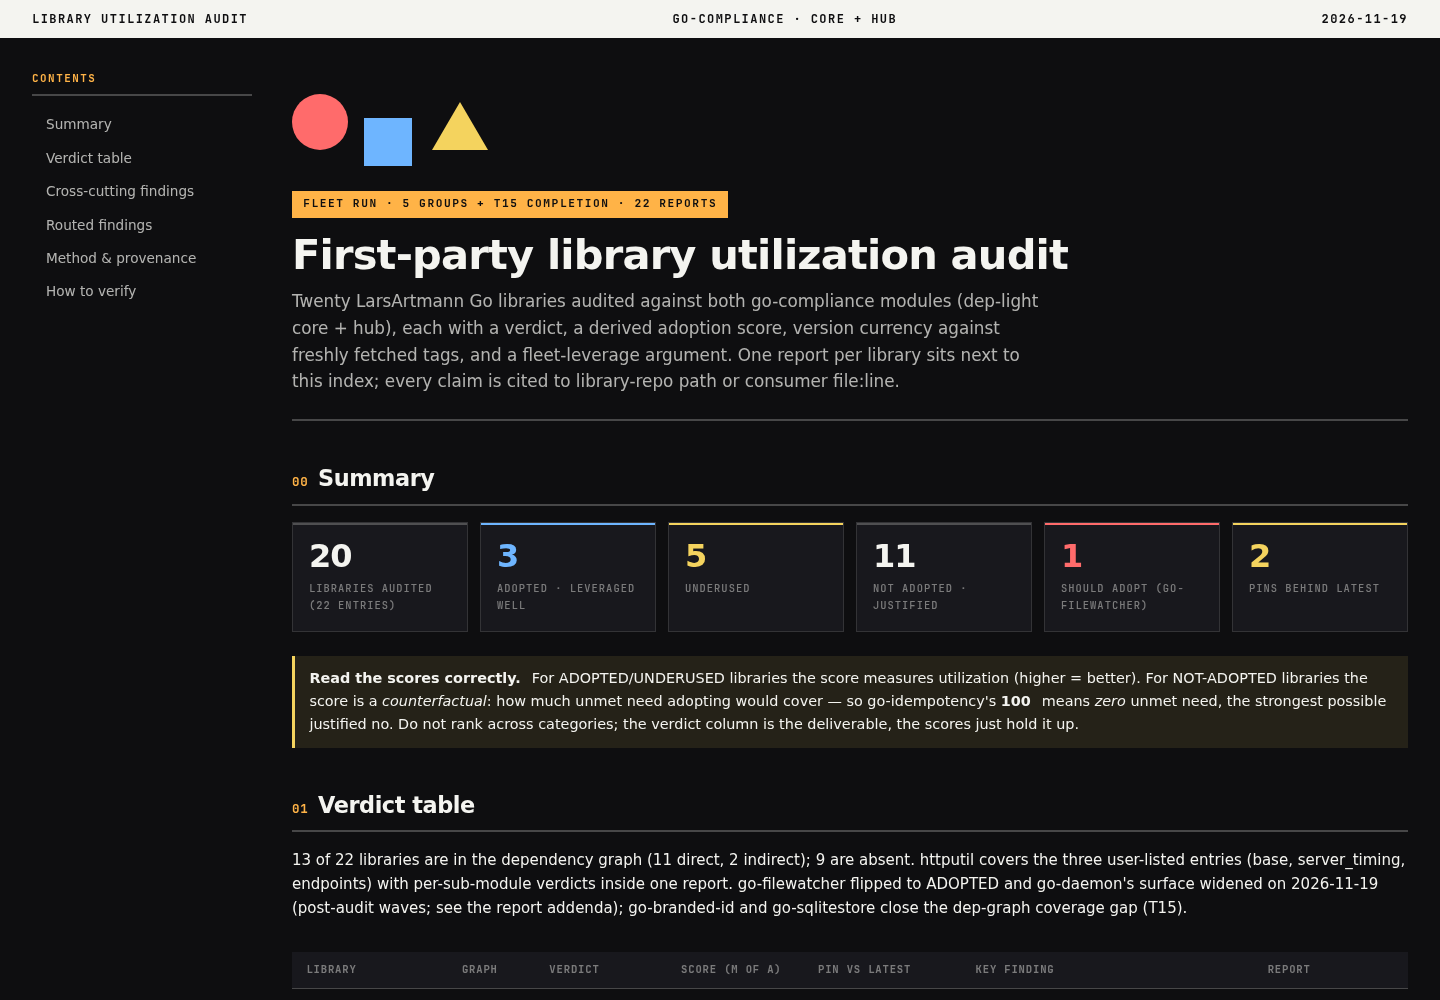
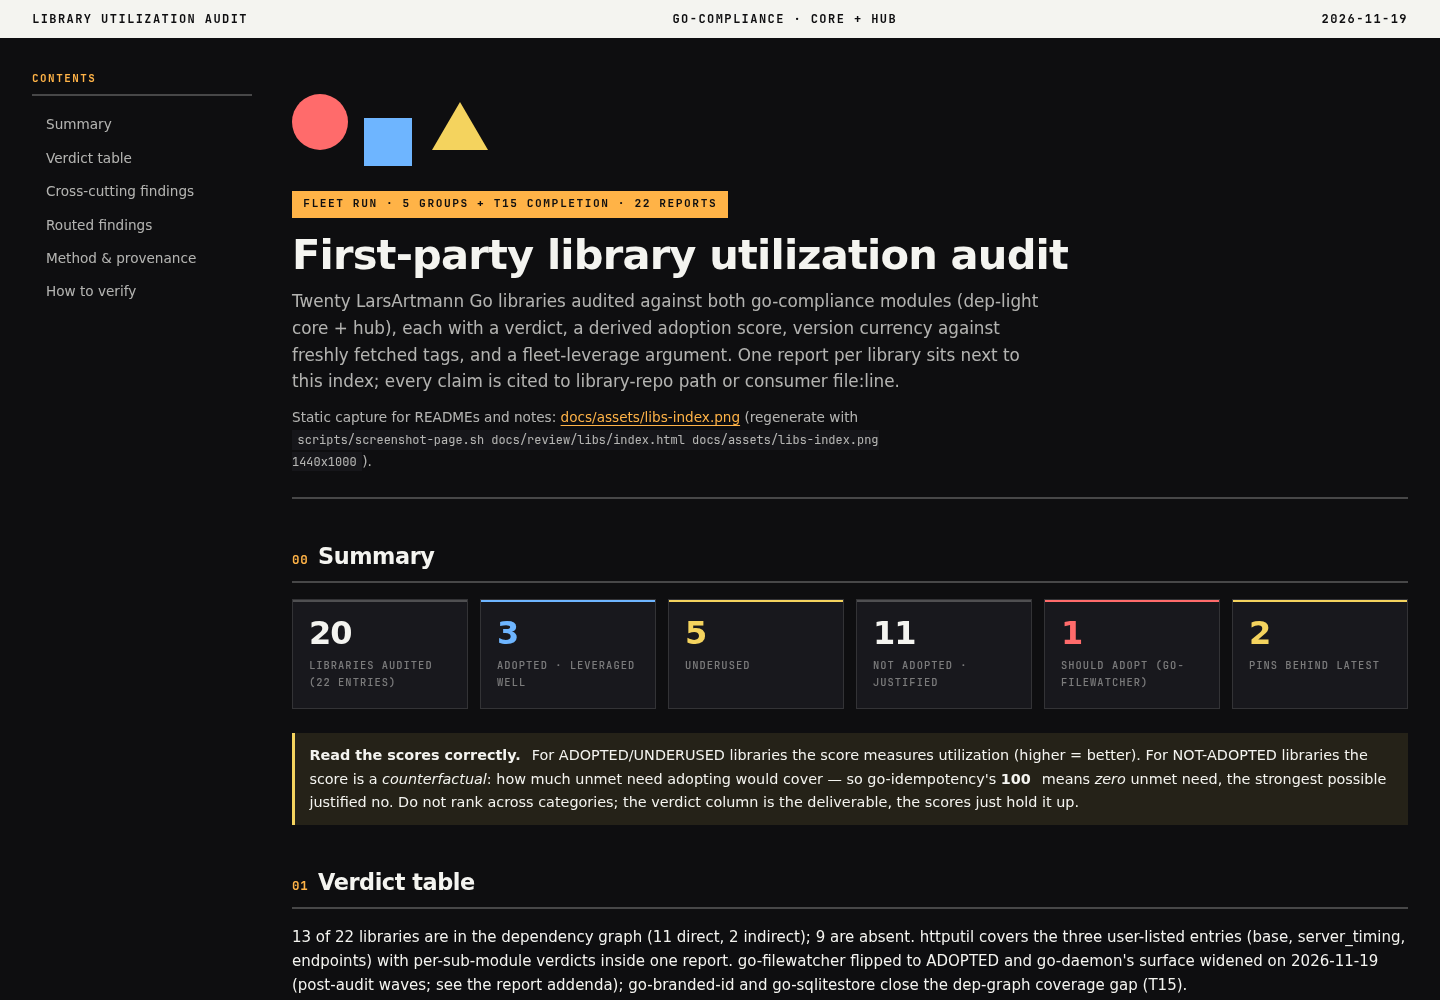
chore: auto-commit 6 changed file(s) (heuristic)
AGENTS.md
CHANGELOG.md
TODO_LIST.md
docs/assets/libs-index.png
docs/review/libs/index.html
scripts/screenshot-page.sh

Daemon: true

Changed region(s): [[0.1875, 0.403, 0.9688, 0.992]]

diff --git a/docs/review/libs/index.html b/docs/review/libs/index.html
@@ -250,6 +250,11 @@
         max-width: 70ch;
         margin: 0.75rem 0 0;
       }
+      .hero-subtle a {
+        color: var(--accent);
+        text-decoration: underline;
+        text-underline-offset: 3px;
+      }
 
       /* Bauhaus signature: geometric shape cluster (optional) */
       .hero-shapes {

diff --git a/TODO_LIST.md b/TODO_LIST.md
@@ -34,7 +34,6 @@ The plan is a snapshot: this file is the living backlog.
 | ------------------------------------------------------------------------------------------------------------------------------------------------------------------------------------------------------------------------------------------------------------------------------------------------------------------------------------------------------------------------------------------------------------------------------------------------------------------------------------------------------------------------------------------------- | ------------ | ------ | ------ | --------------------------------------------------------------------- |
 | Fleet docs-gates pin bump past `e305834` (adds the `rows` verb): crush-config/fleet nix bump — in-repo writer aliases cover the gap meanwhile                                                                                                                                                                                                                                                                                                                                                                                                     | 🔵 `BLOCKED` | Low    | 15m    | T9 verdict 2026-11-20; docs/status/owner-decisions-digest.md          |
 | cmdguard follow-ups: cmdguard-lint CI gate DONE 2026-11-19 (`cmdguard usage gate` job, pinned `lint/v0.3.0` shallow-clone recipe); `pkg/testutil.AssertDescribeContract` verified on master but NOT in v5.1.0 — adopt at the next tag; upstream the `Nd` day-suffix duration codec + the lint published-replaces bug — DRAFTS written (`docs/drafts/cmdguard-nd-duration-codec.md`, `cmdguard-lint-published-replaces.md`, voice-checked); adoption sketch at `docs/notes/cmdguard-describe-adoption-sketch.md`; filing waits on the OG.5 mandate | 🔵 `BLOCKED` | Low    | 30m    | docs/review/libs/cmdguard.md; ci.yml                                  |
-| Screenshot docs/review/libs/index.html into docs/assets + link from index (firefox permission needed)                                                                                                                                                                                                                                                                                                                                                                                                                                             | 🔴 `TODO`    | Low    | 10m    | 07-41 status §b1; plan T10.4                                          |
 | Re-record `benchmarks/baseline.txt` (owner call g2): the VERIFY half is done — claim PROVEN 2026-11-20 (fold @341 = 107µs vs the ≈150µs FEATURES claim, alloc shapes identical to the M27 baseline); only the re-record itself is left and it is a policy choice, not a defect                                                                                                                                                                                                                                                                    | 🔵 `BLOCKED` | Low    | 10m    | 2026-11-20 bench deltas in the execution status report; g2 unanswered |
 
 ## Blocked (owner decisions)
@@ -47,5 +46,4 @@ The plan is a snapshot: this file is the living backlog.
 | Forgejo repo visibility (lars/go-compliance → public?)                                                                                                                                                                                                                                         | 🔵 `BLOCKED` | Low    | 5m     | manual UI action, owner-only                                          |
 | `sqlite3 ~/.local/state/buildflow/buildflow.db VACUUM` (1.03 GB)                                                                                                                                                                                                                               | 🔵 `BLOCKED` | Low    | 10m    | 23-40 §f25; owner machine hygiene                                     |
 | Delete the expendable 0.51 GB cache DB (`~/.cache/buildflow/cache.db`)                                                                                                                                                                                                                         | 🔵 `BLOCKED` | Low    | 5m     | 23-40 §f26; owner data deletion, never agent-executed                 |
-| Flaky-spec sweep: `watcher_internal_test.go:53` (300ms arming) same wall-clock hardening as FileSource                                                                                                                                                                                         | ⬜ `TODO`    | Low    | Med    | 16-58 filesource-backoff report §f33; quality follow-up               |
 | Deploy compliance-hub for real (systemd unit: user, bind `192.168.1.150:8477` or unix-socket per bind-posture, evidence path) + the g1 auth-posture decision now that LAN exposure exists ad-hoc                                                                                               | 🔵 `BLOCKED` | Med    | 30m    | 22-27 UI audit report §g q2, §f21-23; recipe proven live 2026-11-24   |

diff --git a/CHANGELOG.md b/CHANGELOG.md
@@ -11,6 +11,7 @@ The format is based on [Keep a Changelog](https://keepachangelog.com/en/1.0.0/).
 - Release posture (2026-11-24): `scripts/pre-release-check.sh` (pre-flight: clean tree, CHANGELOG section, notes file, master pushed to BOTH remotes, tag freshness, the canonical plain-`buildflow` gate, `nix flake check`, `docs-gates run .` — every gate with a true exit code; `--verify` mode: both remotes at the tagged commit, proxy `@v/list`, GitHub release, clean-dir `go get`) plus `docs/notes/release-runbook.md` distilling the v0.2.0 sequence; CI re-runs the full matrix on `v*` tag pushes so a tag's own CI verdict exists (the v0.2.0 tag froze a red run).
 - Retroactive v0.1.0 GitHub release page (`docs/notes/v0.1.0-release-notes.md`; the tag shipped notes-less on 2026-11-19).
 - Dashboard rework (2026-11-25 to 27): the fleet summary replaces the stat cards (a headline sentence "155 of 211 repos are failing", a proportional state bar, count-carrying filter chips); chips filter through `data-on:click` (the previous `data-on-click` attribute was an unknown plugin that the pinned DataStar dropped silently, so the filter never worked); per-filter empty states; a quieter `@theme` re-skin (one accent, muted severity ramp, system fonts); tabular numbers; rows stack under a 40rem container; findings show count-first tokens ("3 ERR") instead of "—"; favicon route.
+- `scripts/screenshot-page.sh`: one static viewport capture of a page or a local HTML file with the same pinned chromium; `docs/assets/libs-index.png` is the library audit index captured and linked from `docs/review/libs/index.html`.
 - `scripts/screenshot.sh`: a real-browser gate (headless Chromium over CDP) rendering light, dark, and narrow views, asserting theme, favicon, zero console/network errors, pressed chip state, filter clicks, and empty messages.
 - `serve --discover-paths` (default `~/projects`): the discovery roots sent to the project-discovery daemon. The hub used to send none, the daemon answered 400 on every start, and never-covered was empty by construction. Only projects with a `go.mod` count, matching the producer's rule; an empty value disables discovery.
 - `scripts/deploy-hub.sh` and `deploy/compliance-hub.user.service`: the hub as a hardened `systemctl --user` unit (Type=notify, watchdog, read-only filesystem, LAN unicast bind) built from the committed tree and GC-rooted; `scripts/deploy-fleet-evidence.sh` and the `fleet-evidence` timer for the producer.
@@ -43,12 +44,16 @@ The format is based on [Keep a Changelog](https://keepachangelog.com/en/1.0.0/).
 - TODO_LIST purge (2026-11-27): Clean-dir `go get github.com/larsartmann/go-compliance@v0.2.0` (GONOSUMDB='*' then without) — done (2026-11-24; part of scripts/pre-release-check.sh --verify)
 - TODO_LIST purge (2026-11-27): README install/`go get` snippets → v0.2.0 — done (2026-11-24; README Install section)
 
+- TODO_LIST purge (2026-11-27): Screenshot docs/review/libs/index.html into docs/assets + link from index (firefox permission needed) — done (2026-11-27: captured with scripts/screenshot-page.sh and linked from the index hero)
+- TODO_LIST purge (2026-11-27): Flaky-spec sweep: `watcher_internal_test.go:53` (300ms arming) same wall-clock hardening as FileSource — done (2026-11-27: watcher_internal_test.go probes until the watch is live instead of sleeping 300ms; six focused -race runs green)
+
 ### Deprecated
 
 ### Removed
 
 ### Fixed
 
+- The cross-process evidence-watch spec no longer sleeps 300ms to "let the watch arm": it probes with throwaway rows until the hub refreshes, spaced wider than the refresh debounce, then measures the 2s budget (`armWatch`).
 - Filter chips never filtered (2026-11-27): `data-on-click` is not a DataStar attribute; DOM events use `data-on:click`.
 - Never-covered was always empty (2026-11-27): discovery snapshots were sent without search roots, which the daemon rejects. See `--discover-paths`.
 - `/readyz` reported `discovery` warn forever ten minutes after every start on a healthy, quiet stream: the contact stamp was only taken on connect and snapshot. A connected stream now passes the check by itself.

diff --git a/AGENTS.md b/AGENTS.md
@@ -28,6 +28,7 @@ scripts/pre-release-check.sh vX.Y.Z                        # release (docs/notes
 cd hub && go tool templ fmt -fail ./internal/dashboard/ && go tool templ generate ./internal/dashboard/
 nix shell .#tailwindcss -c bash scripts/regen-ui.sh        # commit the three artifacts with the edit
 scripts/screenshot.sh                                      # real-browser gate: themes, narrow layout, filter clicks
+scripts/screenshot-page.sh <url|file> <out.png> [WxH]      # one static capture for docs/assets
 
 # Deployment (host state; both build from the COMMITTED tree)
 scripts/deploy-hub.sh                                      # hub as a systemd user unit on the LAN address
